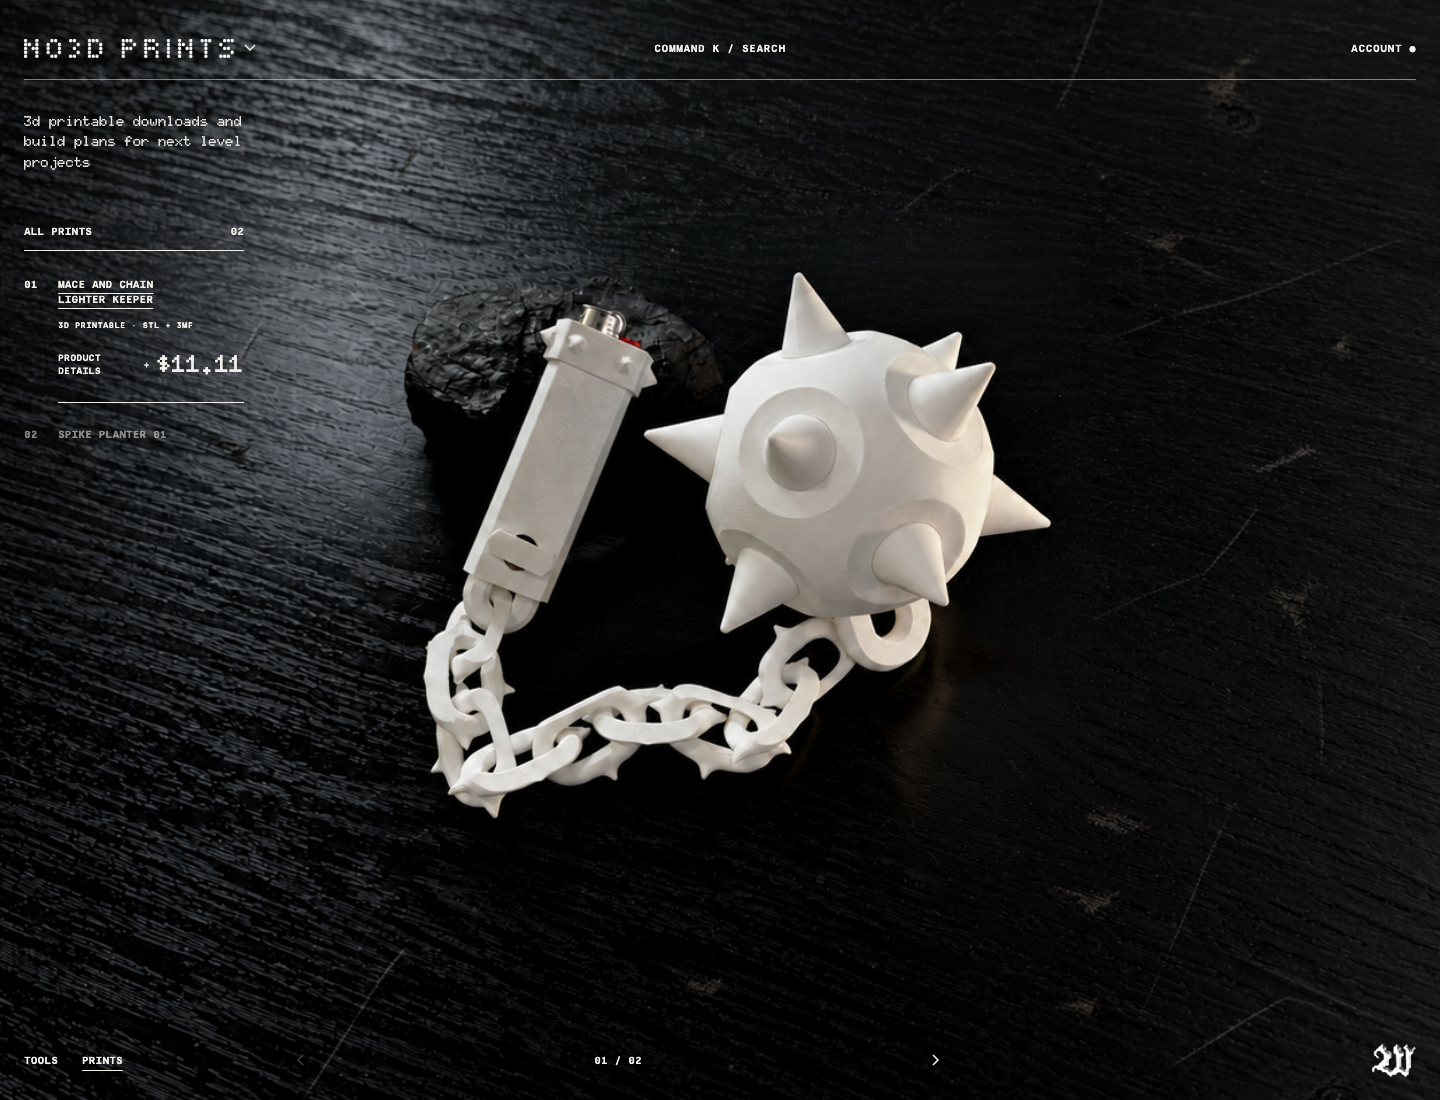
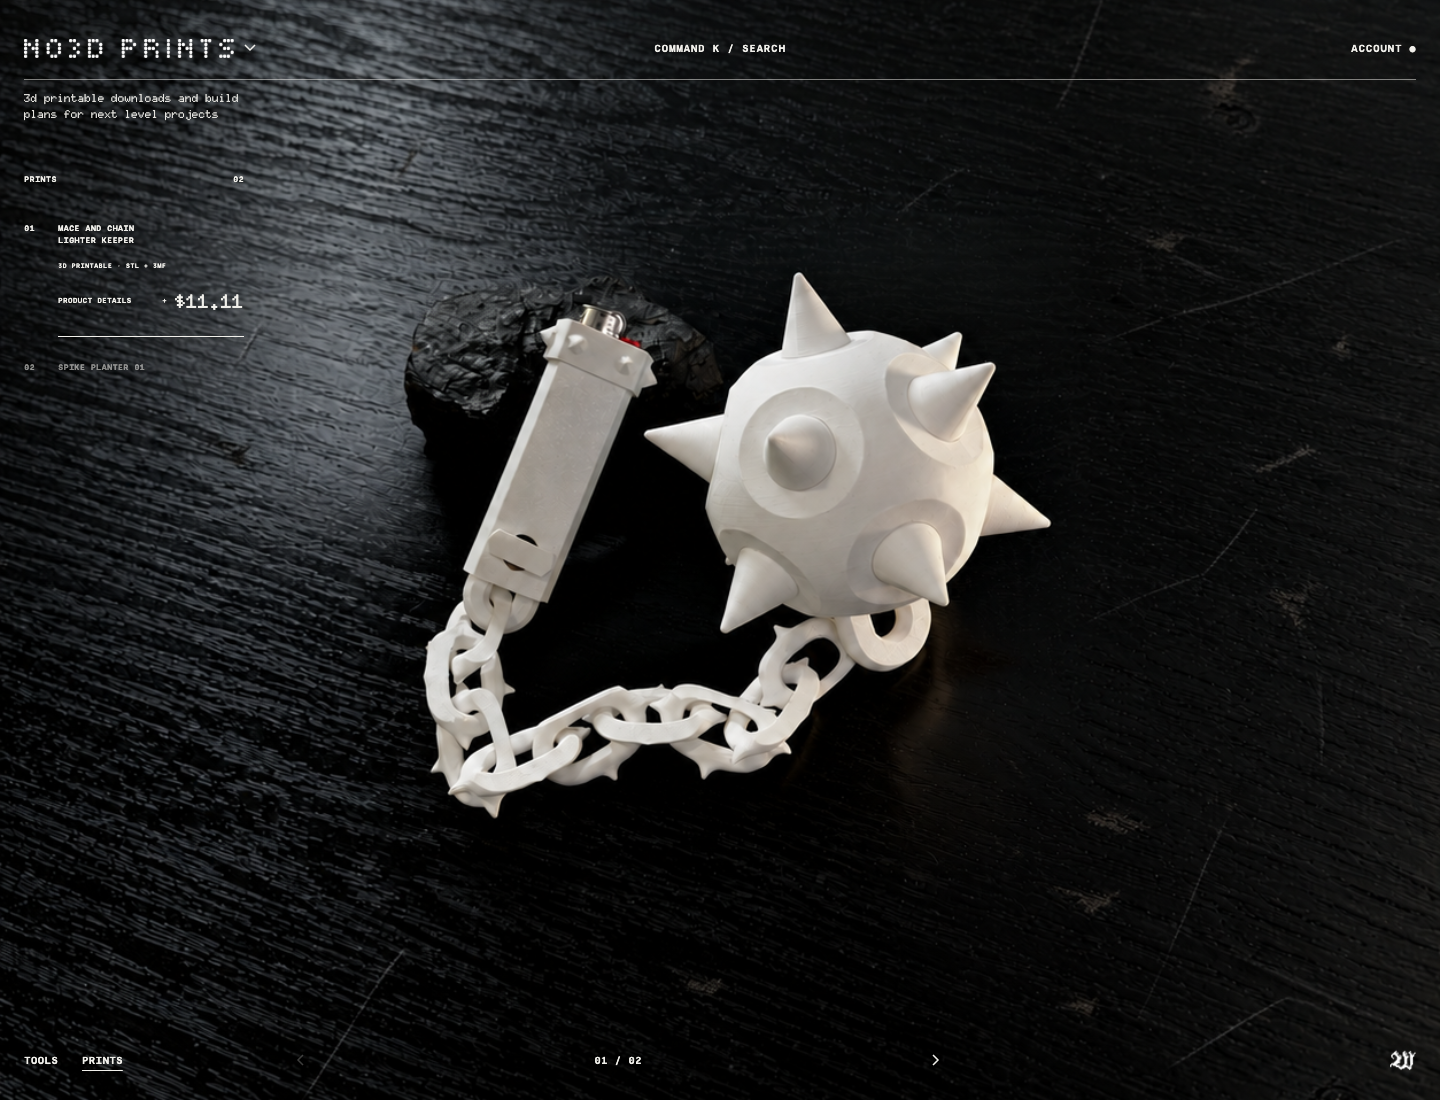
Refine Prints sidebar scale and spacing

diff --git a/v3/styles/prints.css b/v3/styles/prints.css
@@ -13,28 +13,27 @@
 .prints-chrome .v3-search,.prints-chrome .v3-status{font-size:10px}
 .prints-chrome .storefront-brand{color:var(--paper)}
 .prints-chrome .storefront-destinations{pointer-events:auto}
-.prints-index{position:absolute;left:var(--print-gutter);top:112px;bottom:84px;width:var(--print-rail);overflow-y:auto;scrollbar-width:thin;scrollbar-color:currentColor transparent}
-.prints-subheading{font:700 14px/1.45 var(--body);margin:0 0 52px;max-width:220px}
-.prints-index-heading{display:flex;justify-content:space-between;font:600 10px var(--ui);text-transform:uppercase;margin-bottom:18px;padding-bottom:12px;border-bottom:1px solid currentColor}
+.prints-index{position:absolute;left:var(--print-gutter);top:89.6px;bottom:84px;width:var(--print-rail);overflow-y:auto;scrollbar-width:thin;scrollbar-color:currentColor transparent}
+.prints-subheading{font:700 11.2px/1.45 var(--body);margin:0 0 52px;max-width:220px}
+.prints-index-heading{display:flex;justify-content:space-between;font:600 8px var(--ui);text-transform:uppercase;margin-bottom:18px;padding-bottom:12px}
 .prints-products{display:grid;gap:14px;margin:0;padding:0;list-style:none}
 .print-item{min-width:0}
 .print-item h2{margin:0;font:inherit}
-.print-item-toggle{display:grid;grid-template-columns:24px minmax(0,1fr);gap:10px;width:100%;min-height:44px;border:0;padding:8px 0;background:transparent;color:inherit;text-align:left;font:600 10px/1.5 var(--ui);text-transform:uppercase;cursor:pointer;opacity:.55}
+.print-item-toggle{display:grid;grid-template-columns:24px minmax(0,1fr);gap:10px;width:100%;min-height:44px;border:0;padding:8px 0;background:transparent;color:inherit;text-align:left;font:600 8px/1.5 var(--ui);text-transform:uppercase;cursor:pointer;opacity:.55}
 .print-item-toggle[aria-current=true],.print-item-toggle:hover{opacity:1}
-.print-item-toggle[aria-current=true] span:last-child{text-decoration:underline;text-underline-offset:5px}
 .print-item-details{margin:4px 0 2px 34px;padding-bottom:16px;border-bottom:1px solid currentColor}
-.print-type{margin:0 0 12px;font:600 8px/1.5 var(--ui);text-transform:uppercase;letter-spacing:.025em}
+.print-type{margin:0 0 12px;font:600 6.4px/1.5 var(--ui);text-transform:uppercase;letter-spacing:.025em}
 .print-item-actions{display:grid;grid-template-columns:minmax(0,1fr) auto;align-items:center;gap:12px 8px}
-.print-item-actions button{display:flex;align-items:center;justify-content:space-between;gap:8px;min-height:36px;border:0;padding:8px 0;background:transparent;color:inherit;font:600 9px/1.5 var(--ui);text-align:left;text-transform:uppercase;text-decoration:none;cursor:pointer}
+.print-item-actions button{display:flex;align-items:center;justify-content:space-between;gap:8px;min-height:36px;border:0;padding:8px 0;background:transparent;color:inherit;font:600 7.2px/1.5 var(--ui);text-align:left;text-transform:uppercase;text-decoration:none;cursor:pointer}
 .print-item-actions button:hover{text-decoration:underline;text-underline-offset:4px}
-.print-price{font:900 24px/1 var(--body);font-variation-settings:'wght' 900,'ROND' 100;white-space:nowrap}
+.print-price{font:900 19.2px/1 var(--body);font-variation-settings:'wght' 900,'ROND' 100;white-space:nowrap}
 .prints-footer{position:absolute;bottom:18px;left:var(--print-gutter);right:var(--print-gutter);height:44px;display:grid;grid-template-columns:var(--print-rail) 1fr auto;align-items:center;gap:34px}
 .prints-footer-links{display:flex;gap:24px;font:600 10px var(--ui);text-transform:uppercase}
 .prints-footer-links a{text-decoration:none}.prints-footer-links a[aria-current]{text-decoration:underline;text-underline-offset:6px}
 .prints-pagination{display:flex;align-items:center;justify-content:space-between;gap:24px;max-width:680px;font:600 10px var(--ui)}
 .prints-pagination button{width:44px;height:44px;display:grid;place-items:center;border:0;background:transparent;color:inherit;cursor:pointer}
 .prints-pagination button:disabled{opacity:.25;cursor:default}
-.prints-stone{width:44px;height:44px;object-fit:contain}
+.prints-stone{width:26.4px;height:26.4px;object-fit:contain;justify-self:end}
 .prints-page button:focus-visible,.prints-page a:focus-visible{outline:2px solid currentColor;outline-offset:5px}
 .prints-search{position:relative;z-index:20;display:grid;grid-template-columns:120px 1fr auto;align-items:center;gap:18px;padding:18px;background:var(--paper);color:var(--ink);border:1px solid var(--ink);pointer-events:auto}
 .prints-search label,.prints-search button{font:600 10px var(--ui);text-transform:uppercase}
@@ -43,20 +42,20 @@
 .prints-empty{position:absolute;inset:50% 24px auto;text-align:center;color:var(--paper);font:700 24px var(--body)}
 .visually-hidden,.prints-skip{position:absolute;width:1px;height:1px;padding:0;margin:-1px;overflow:hidden;clip:rect(0,0,0,0);white-space:nowrap;border:0}
 .prints-skip:focus{z-index:100;width:auto;height:auto;clip:auto;inset:8px auto auto 8px;margin:0;padding:16px;background:var(--paper);color:var(--ink)}
-@media(max-width:1000px){.prints-subheading{font-size:13px}}
+@media(max-width:1000px){.prints-subheading{font-size:10.4px}}
 @media(max-width:650px){
   .prints-page{--print-gutter:12px}
   .prints-chrome{padding-top:10px}.prints-chrome .v3-mast{display:grid;grid-template-columns:1fr auto auto;gap:8px;min-height:52px}
   .prints-chrome .v3-search{grid-column:2;grid-row:1;padding:10px 0;font-size:8px}.prints-chrome .v3-status{grid-column:3;grid-row:1;font-size:8px}
-  .prints-index{top:84px;bottom:76px;width:calc(100% - 24px);display:flex;flex-direction:column;pointer-events:none}
-  .prints-subheading{max-width:245px;margin:0 0 24px;font-size:13px;line-height:1.4;pointer-events:auto}
+  .prints-index{top:68.6px;bottom:76px;width:calc(100% - 24px);display:flex;flex-direction:column;pointer-events:none}
+  .prints-subheading{max-width:245px;margin:0 0 24px;font-size:10.4px;line-height:1.4;pointer-events:auto}
   .prints-index-heading{display:none}
   .prints-products{margin-top:auto;gap:10px;pointer-events:auto}
   .print-item-details{padding-bottom:10px;margin-top:0}
   .print-type{margin-bottom:6px}
   .print-item-actions{gap:6px 12px}
-  .prints-footer{grid-template-columns:1fr 170px 30px;gap:12px;bottom:12px}
-  .prints-footer-links{font-size:8px;gap:16px}.prints-pagination{font-size:9px;gap:12px}.prints-stone{width:30px;height:30px}
+  .prints-footer{grid-template-columns:1fr 170px 18px;gap:12px;bottom:12px}
+  .prints-footer-links{font-size:8px;gap:16px}.prints-pagination{font-size:9px;gap:12px}.prints-stone{width:18px;height:18px}
   .prints-search{grid-template-columns:1fr auto;gap:8px;padding:14px}.prints-search label{grid-column:1/-1}.prints-search input{font-size:14px}
 }
 @media(prefers-reduced-motion:reduce){html{scroll-behavior:auto}.prints-carousel{scroll-behavior:auto}}

diff --git a/v3/prints/index.html b/v3/prints/index.html
@@ -37,7 +37,7 @@
     <div class="prints-search" id="prints-search" hidden><label for="print-search">Search prints</label><input id="print-search" type="search" autocomplete="off" placeholder="Search print downloads"><button type="button" data-search-close aria-label="Close search">Close ×</button></div>
     <aside class="prints-index" aria-label="Print catalog">
       <p class="prints-subheading">3d printable downloads and build plans for next level projects</p>
-      <div class="prints-index-heading"><span>All Prints</span><span data-result-count>02</span></div>
+      <div class="prints-index-heading"><span>Prints</span><span data-result-count>02</span></div>
       <ol class="prints-products" aria-label="Choose a print">
         <li class="print-item" data-print-item="mace-and-chain">
           <h2><button type="button" class="print-item-toggle" data-go-product="mace-and-chain" id="print-name-mace" aria-current="true" aria-expanded="true" aria-controls="print-info-mace"><span>01</span><span>Mace and Chain<br>Lighter Keeper</span></button></h2>

diff --git a/docs/design/v3/prints/README.md b/docs/design/v3/prints/README.md
@@ -8,6 +8,8 @@ Joe's 2026-10-28 direction: use the existing NO3D design language and UX, replac
 
 The latest review moves all product information and actions out of the photograph into the product list. The active row expands to show file format, price, and Product details; other rows retain only their number and title. Clicking a row, using the carousel controls, swiping, keyboard navigation, search, and direct product URLs keep that expanded row synchronized with the visible photograph. The photo slides contain no title or purchase overlay. Desktop keeps this compact list in the left rail; on phones it sits near the bottom of the viewport above the footer, with the introductory subheading remaining near the masthead. Clicking a product in the photograph opens a full-screen slide-up product page. Its shared centered hitbox is 56% of viewport width and 64% of viewport height on both slides. The Product details button remains a keyboard-accessible alternative.
 
+Sidebar refinement on 2026-10-28: every sidebar font size is 80% of its previous size, including the price. The subheading now sits 9.6px below the masthead on desktop and 6.6px below it on mobile (a 70% gap reduction). The section label is Prints, with its divider removed; selected product titles have no underline. The footer W is 60% of its former width and height (26.4px desktop, 18px mobile).
+
 The masthead switches between the existing Tools and Prints wordmarks. The Prints subheading is Joe's exact first draft:
 
 > 3d printable downloads and build plans for next level projects
